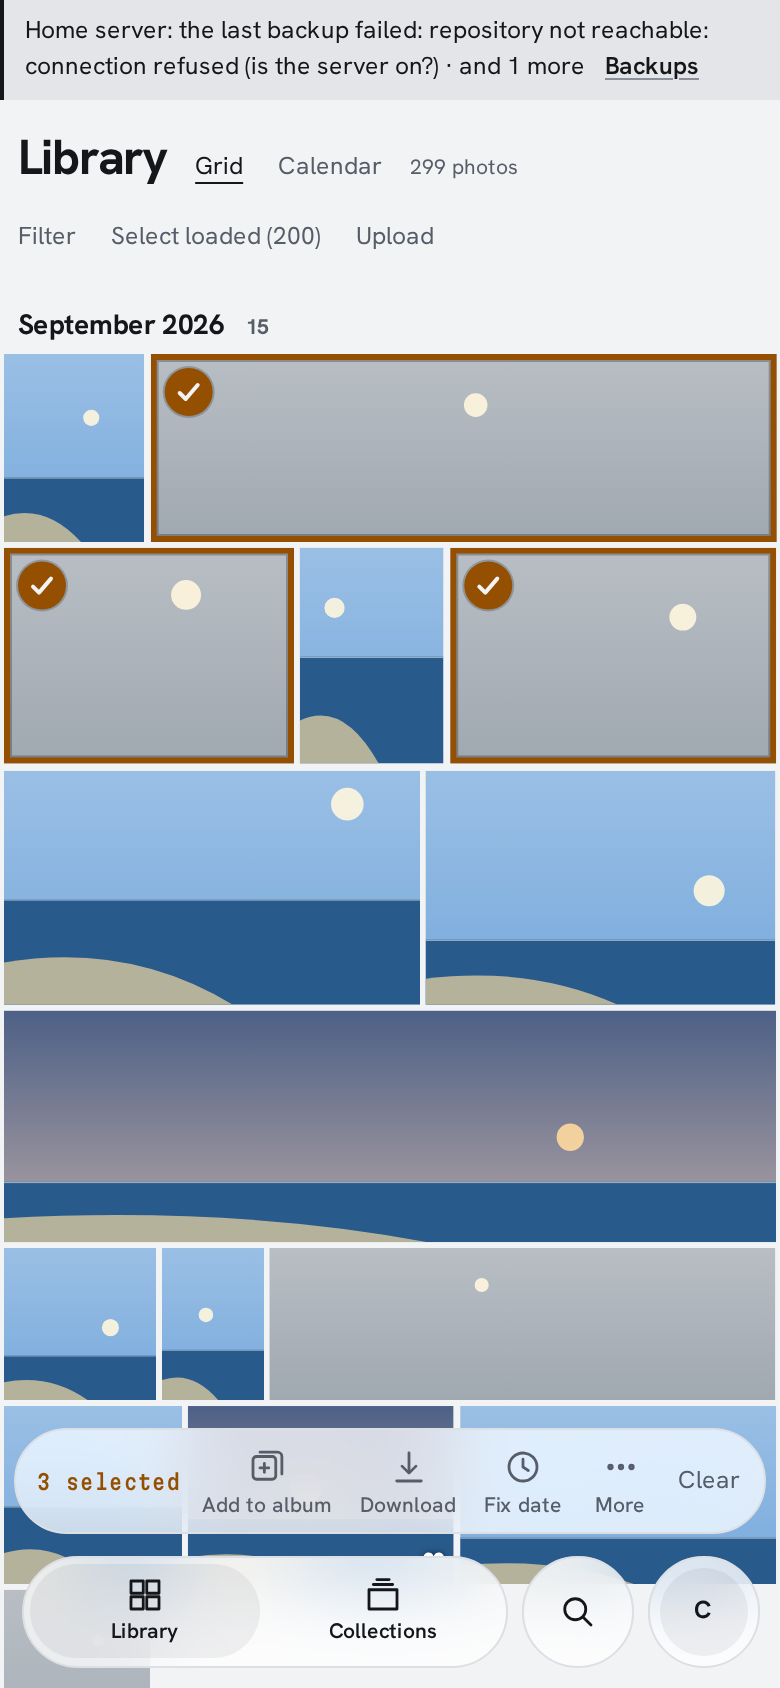
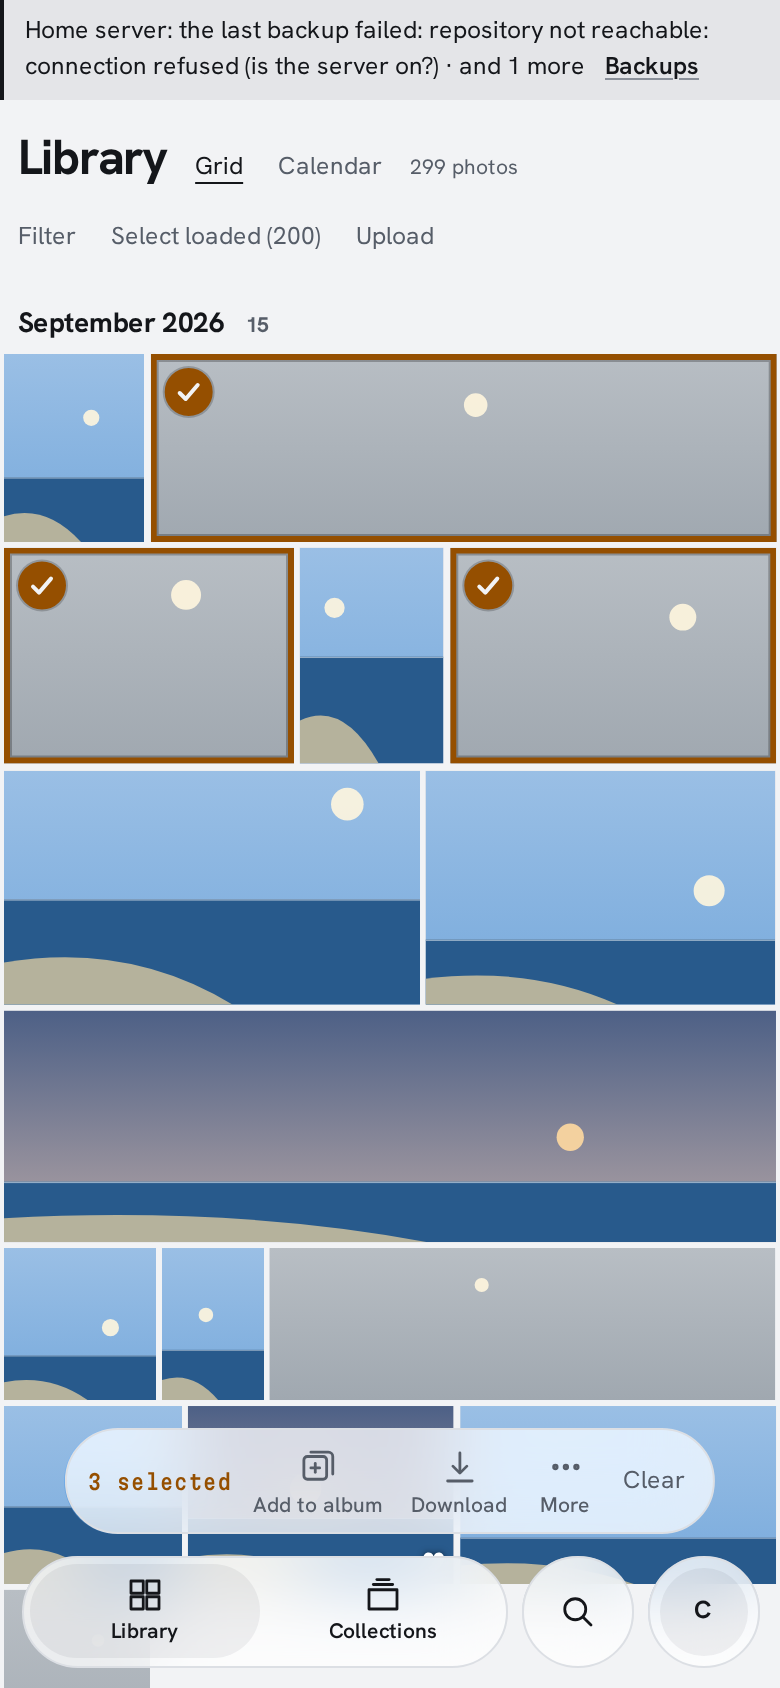
docs: pill and ruler in the design principles; screenshots of the screens that changed

diff --git a/docs/DESIGN_PRINCIPLES.md b/docs/DESIGN_PRINCIPLES.md
@@ -146,7 +146,8 @@ case** — no uppercase tracking. A count beside a title is set in the data face
 - **Selection**: a 3 px accent frame inset on the photo (with a 1 px shade so it reads on any
   photo) and a filled accent circle with a check. The actions come to the photos as a floating
   glass pill at the bottom centre: the count (the only accent text), Add to album, Download,
-  Fix date, Move to trash, and More for the rest. Escape clears.
+  Fix date, Move to trash, and More for the rest. What does not fit beside the count and Clear
+  (a narrow phone, large text, a long count) joins More: nothing leaves the glass. Escape clears.
 - **Focus**: 2 px accent outline, 2 px offset (inset on photo tiles).
 - **Icons**: a small set of 1.6 px-stroke SVGs drawn for this app, one component, no icon
   font. In navigation and action bars an icon carries its word beneath or beside it. Every
